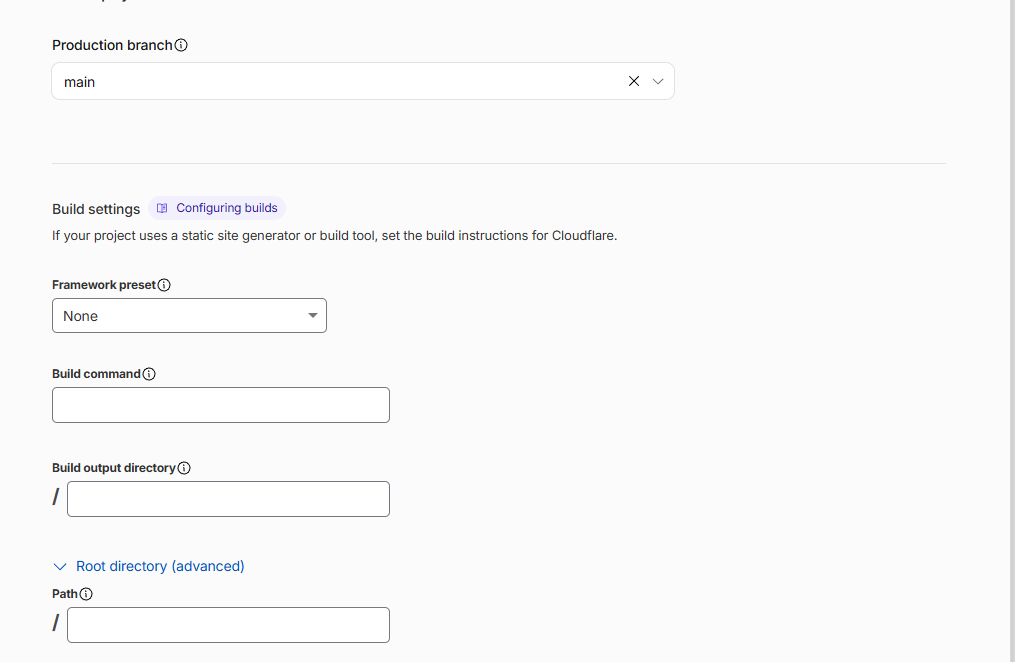
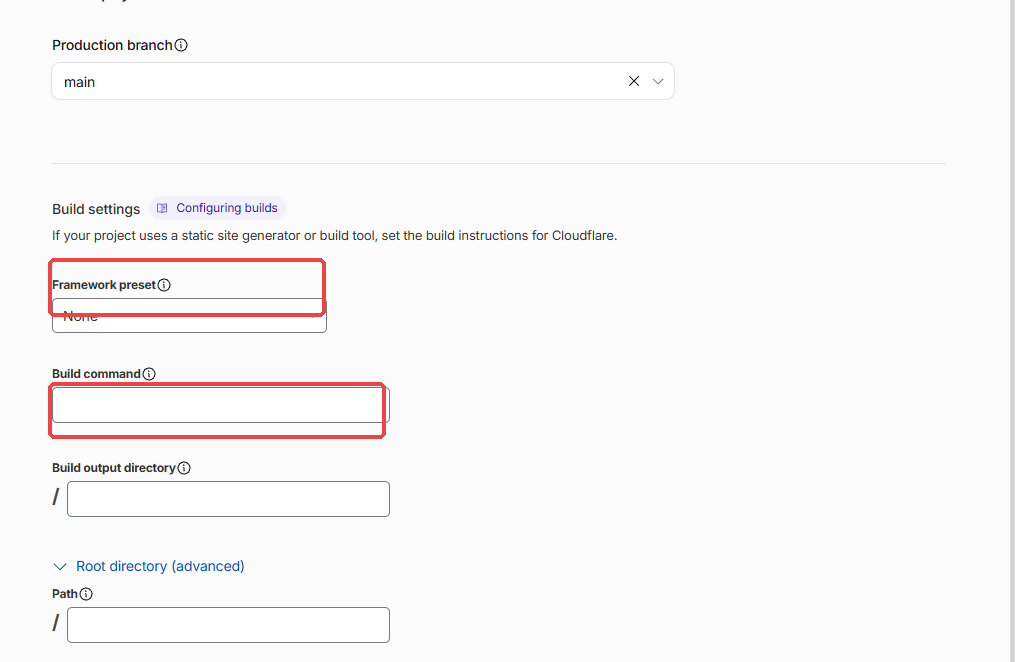
feat: Cloudflare 배포 가이드 주요 클릭 포인트 빨간색 강조 및 페이지 로딩 최적화

Changed region(s): [[0.0305, 0.574, 0.397, 0.6647], [0.0305, 0.3927, 0.336, 0.4834]]

diff --git a/index.html b/index.html
@@ -916,7 +916,7 @@
           <figure class="hero-media" id="heroMediaFrame">
             <div class="hero-media-cover" id="heroCover" role="button" tabindex="0"
               aria-label="안티그래비티 소개 동영상 재생 (클릭하여 시청)">
-              <img src="assets/image1.png" alt="안티그래비티 표지 이미지 — 개미 연구소의 반중력 장치">
+              <picture><source srcset="assets/image1.webp" type="image/webp"><img src="assets/image1.png" alt="안티그래비티 표지 이미지 — 개미 연구소의 반중력 장치"></picture>
               <div class="hero-play-overlay">
                 <div class="play-icon-badge" aria-hidden="true">
                   <svg viewBox="0 0 24 24" fill="currentColor" width="28" height="28">
@@ -926,7 +926,7 @@
               </div>
             </div>
             <div class="hero-video-box" id="heroVideoBox">
-              <video id="heroVideo" controls preload="auto" playsinline>
+              <video id="heroVideo" controls preload="metadata" playsinline>
                 <source src="assets/Antigravity_technology_presentat%E2%80%A6_2bb0a6e4.mp4" type="video/mp4">
                 <source src="assets/Antigravity_technology_presentat…_2bb0a6e4.mp4" type="video/mp4">
                 브라우저가 동영상 재생을 지원하지 않습니다.
@@ -1560,11 +1560,11 @@ description: 막연한 아이디어를 질문으로
           <h3>스킬 검색 예제 — canvas-design</h3>
           <p class="sub">원하는 스킬을 검색한 후, 상세 페이지의 설치 명령을 복사해서 사용합니다.</p>
           <div class="shots">
-            <figure class="shot"><a href="assets/image2.png" target="_blank" rel="noopener"><img src="assets/image2.png"
+            <figure class="shot"><a href="assets/image2.png" target="_blank" rel="noopener"><img loading="lazy" src="assets/image2.png"
                   alt="skills.sh 에서 canvas 검색 결과 목록"></a>
               <figcaption>01 · skills.sh 에서 ‘canvas’ 검색 — 클릭하면 원본 크기로 열립니다</figcaption>
             </figure>
-            <figure class="shot"><a href="assets/image3.png" target="_blank" rel="noopener"><img src="assets/image3.png"
+            <figure class="shot"><a href="assets/image3.png" target="_blank" rel="noopener"><img loading="lazy" src="assets/image3.png"
                   alt="canvas-design 스킬 상세 페이지의 설치 명령"></a>
               <figcaption>02 · 상세 페이지에서 설치 명령 복사 — 클릭하면 원본 크기로 열립니다</figcaption>
             </figure>
@@ -1617,14 +1617,14 @@ description: 막연한 아이디어를 질문으로
           <h3>스킬 등록 후 사용 — slack-gif-creator</h3>
           <p class="sub">설치 → 새 대화에서 한국어로 요청 → 결과물 생성까지의 흐름입니다.</p>
           <div class="shots two">
-            <figure class="shot"><img src="assets/image5.png" alt="터미널에서 slack-gif-creator 스킬 설치">
+            <figure class="shot"><img loading="lazy" src="assets/image5.png" alt="터미널에서 slack-gif-creator 스킬 설치">
               <figcaption>01 · 터미널에서 스킬 설치</figcaption>
             </figure>
-            <figure class="shot"><img src="assets/image6.png" alt="에이전트가 SKILL.md 를 읽고 작업을 시작하는 화면">
+            <figure class="shot"><img loading="lazy" src="assets/image6.png" alt="에이전트가 SKILL.md 를 읽고 작업을 시작하는 화면">
               <figcaption>02 · 에이전트가 SKILL.md 를 읽고 작업 시작</figcaption>
             </figure>
           </div>
-          <figure class="shot" style="max-width:420px"><img src="assets/image7.gif" alt="스킬로 생성한 애니메이션 GIF 결과물">
+          <figure class="shot" style="max-width:420px"><img loading="lazy" src="assets/image7.gif" alt="스킬로 생성한 애니메이션 GIF 결과물">
             <figcaption>03 · 스킬을 사용하여 생성한 GIF 결과</figcaption>
           </figure>
         </div>
@@ -2145,7 +2145,7 @@ description: 막연한 아이디어를 질문으로
           </div>
           <pre class="code wrap">/prd-writer "현재 상황"과 "기도 제목"을 입력하면 기도문을 자동으로 만들어 주는 웹 페이지를 만들려고 해.
 나는 비개발자이고, 혼자 또는 소그룹에서 쓸 거야.</pre>
-          <figure class="shot"><img src="assets/image8.png" alt="prd-writer 스킬로 PRD 작성을 시작한 화면">
+          <figure class="shot"><img loading="lazy" src="assets/image8.png" alt="prd-writer 스킬로 PRD 작성을 시작한 화면">
             <figcaption>PRD 작성 · 항목을 하나씩 질문받으며 진행</figcaption>
           </figure>
         </div>
@@ -2161,10 +2161,10 @@ description: 막연한 아이디어를 질문으로
           </div>
           <pre class="code wrap">/grill-me PRD.md 를 확인해보고 추가 질문을 해줘.</pre>
           <div class="shots">
-            <figure class="shot"><img src="assets/image9.png" alt="grill-me 스킬로 요구사항을 상세화하는 화면">
+            <figure class="shot"><img loading="lazy" src="assets/image9.png" alt="grill-me 스킬로 요구사항을 상세화하는 화면">
               <figcaption>01 · grill-me 로 추가 질문을 받으며 상세화</figcaption>
             </figure>
-            <figure class="shot"><img src="assets/image10.png" alt="상세화 결과가 PRD.md 에 반영된 화면">
+            <figure class="shot"><img loading="lazy" src="assets/image10.png" alt="상세화 결과가 PRD.md 에 반영된 화면">
               <figcaption>02 · 상세화 결과가 PRD.md 에 반영 — API 키 관리 · 공유 기능 · Stitch 연동 등이 추가됨</figcaption>
             </figure>
           </div>
@@ -2175,7 +2175,7 @@ description: 막연한 아이디어를 질문으로
             <h3>Stitch와 연동하여 개발 진행</h3>
           </div>
           <p class="goal"><b>목표</b> — Stitch MCP로 화면 디자인을 만들고, 그 디자인을 코드로 옮깁니다.</p>
-          <figure class="shot"><img src="assets/image11.png" alt="Stitch MCP 와 연동하여 개발을 진행하는 화면">
+          <figure class="shot"><img loading="lazy" src="assets/image11.png" alt="Stitch MCP 와 연동하여 개발을 진행하는 화면">
             <figcaption>Stitch MCP 연동 · 디자인 생성부터 구현까지</figcaption>
           </figure>
         </div>
@@ -2185,7 +2185,7 @@ description: 막연한 아이디어를 질문으로
             <h3>Stitch에 접속하여 확인</h3>
           </div>
           <p class="goal"><b>목표</b> — 에이전트가 만든 디자인이 Stitch에 실제로 생성되었는지 확인합니다.</p>
-          <figure class="shot"><img src="assets/image12.png" alt="Stitch 웹사이트에서 생성된 디자인을 확인하는 화면">
+          <figure class="shot"><img loading="lazy" src="assets/image12.png" alt="Stitch 웹사이트에서 생성된 디자인을 확인하는 화면">
             <figcaption>Stitch 에서 생성된 화면 디자인 확인</figcaption>
           </figure>
         </div>
@@ -2195,7 +2195,7 @@ description: 막연한 아이디어를 질문으로
             <h3>AI Studio 에서 API 키 발급</h3>
           </div>
           <p class="goal"><b>목표</b> — 앱이 Gemini 를 호출할 수 있도록 키를 발급받아 <code class="i">.env</code> 에 넣습니다.</p>
-          <figure class="shot"><img src="assets/image13.png" alt="Google AI Studio 에서 API 키를 발급받는 화면">
+          <figure class="shot"><img loading="lazy" src="assets/image13.png" alt="Google AI Studio 에서 API 키를 발급받는 화면">
             <figcaption>AI Studio 접속 → Create API key → 즉시 복사</figcaption>
           </figure>
           <div class="check">
@@ -2225,7 +2225,7 @@ description: 막연한 아이디어를 질문으로
           <figure class="shot"><img src="assets/github_new_repo.png" alt="GitHub 대시보드 우측 상단 New repository 버튼">
             <figcaption>GitHub 로그인 후 우측 상단 '+' 버튼 클릭</figcaption>
           </figure>
-          <figure class="shot"><img src="assets/image14.png" alt="GitHub 저장소를 생성하는 화면">
+          <figure class="shot"><img loading="lazy" src="assets/image14.png" alt="GitHub 저장소를 생성하는 화면">
             <figcaption>Git repository 생성</figcaption>
           </figure>
         </div>
@@ -2235,7 +2235,7 @@ description: 막연한 아이디어를 질문으로
             <h3>개발 완료 및 테스트 후 깃에 배포</h3>
           </div>
           <p class="goal"><b>목표</b> — 동작을 확인한 뒤 코드를 저장소에 올립니다.</p>
-          <figure class="shot"><img src="assets/image15.png" alt="개발을 완료하고 테스트한 뒤 깃에 푸시하는 화면">
+          <figure class="shot"><img loading="lazy" src="assets/image15.png" alt="개발을 완료하고 테스트한 뒤 깃에 푸시하는 화면">
             <figcaption>테스트 완료 후 Git 에 push</figcaption>
           </figure>
         </div>
@@ -2245,7 +2245,7 @@ description: 막연한 아이디어를 질문으로
             <h3>배포를 위하여 Cloudflare 에 접속</h3>
           </div>
           <p class="goal"><b>목표</b> — 무료로 웹에 올릴 수 있는 Cloudflare 대시보드에 들어갑니다.</p>
-          <figure class="shot"><img src="assets/image16.png" alt="Cloudflare 에 접속한 화면">
+          <figure class="shot"><img loading="lazy" src="assets/image16.png" alt="Cloudflare 에 접속한 화면">
             <figcaption>Cloudflare 접속</figcaption>
           </figure>
         </div>
@@ -2256,22 +2256,22 @@ description: 막연한 아이디어를 질문으로
           </div>
           <p class="goal"><b>목표</b> — Cloudflare 에서 GitHub 저장소를 연결해 자동 배포를 설정합니다.</p>
           <div class="shots two">
-            <figure class="shot"><img src="assets/image17.png" alt="Cloudflare 대시보드 홈 화면">
+            <figure class="shot"><img loading="lazy" src="assets/image17.png" alt="Cloudflare 대시보드 홈 화면">
               <figcaption>01 · 대시보드 → Compute (Workers &amp; Pages)</figcaption>
             </figure>
-            <figure class="shot"><img src="assets/image18.png" alt="Make something new 화면에서 GitHub 연결 선택">
+            <figure class="shot"><img loading="lazy" src="assets/image18.png" alt="Make something new 화면에서 GitHub 연결 선택">
               <figcaption>02 · Make something new → Continue with GitHub</figcaption>
             </figure>
           </div>
           <div class="shots two">
-            <figure class="shot"><img src="assets/image19.png" alt="Get started 화면에서 기존 Git 저장소 가져오기 선택">
+            <figure class="shot"><img loading="lazy" src="assets/image19.png" alt="Get started 화면에서 기존 Git 저장소 가져오기 선택">
               <figcaption>03 · Import an existing Git repository</figcaption>
             </figure>
-            <figure class="shot"><img src="assets/image20.png" alt="배포할 저장소를 선택하는 화면">
+            <figure class="shot"><img loading="lazy" src="assets/image20.png" alt="배포할 저장소를 선택하는 화면">
               <figcaption>04 · 배포할 저장소 선택 → Begin setup</figcaption>
             </figure>
           </div>
-          <figure class="shot"><img src="assets/image21.png" alt="프로덕션 브랜치와 빌드 설정을 지정하는 화면">
+          <figure class="shot"><img loading="lazy" src="assets/image21.png" alt="프로덕션 브랜치와 빌드 설정을 지정하는 화면">
             <figcaption>05 · Production branch(main) · Build settings 확인 후 배포</figcaption>
           </figure>
           <div class="check">
